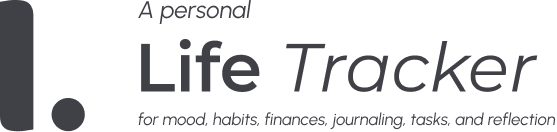
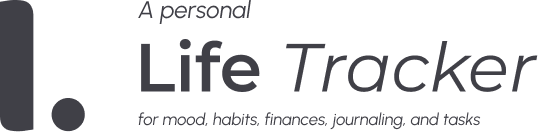
update image and README.md

diff --git a/README.md b/README.md
@@ -17,7 +17,7 @@
 
 ## 💡 Overview
 
-**Personal Life Tracker** is an all-in-one self-management application designed to help track mood, habits, finances, journaling, task and reflection in a single unified system. 
+**Personal Life Tracker** is an all-in-one self-management application designed to help track mood, habits, finances, journaling, and tasks in a single unified system. 
 
 This project was built to solve a personal problem: managing different aspects of life across multiple disconnected tools. By centralizing everything in one place, the app enables better self-reflection, consistency, and long-term personal growth.
 
